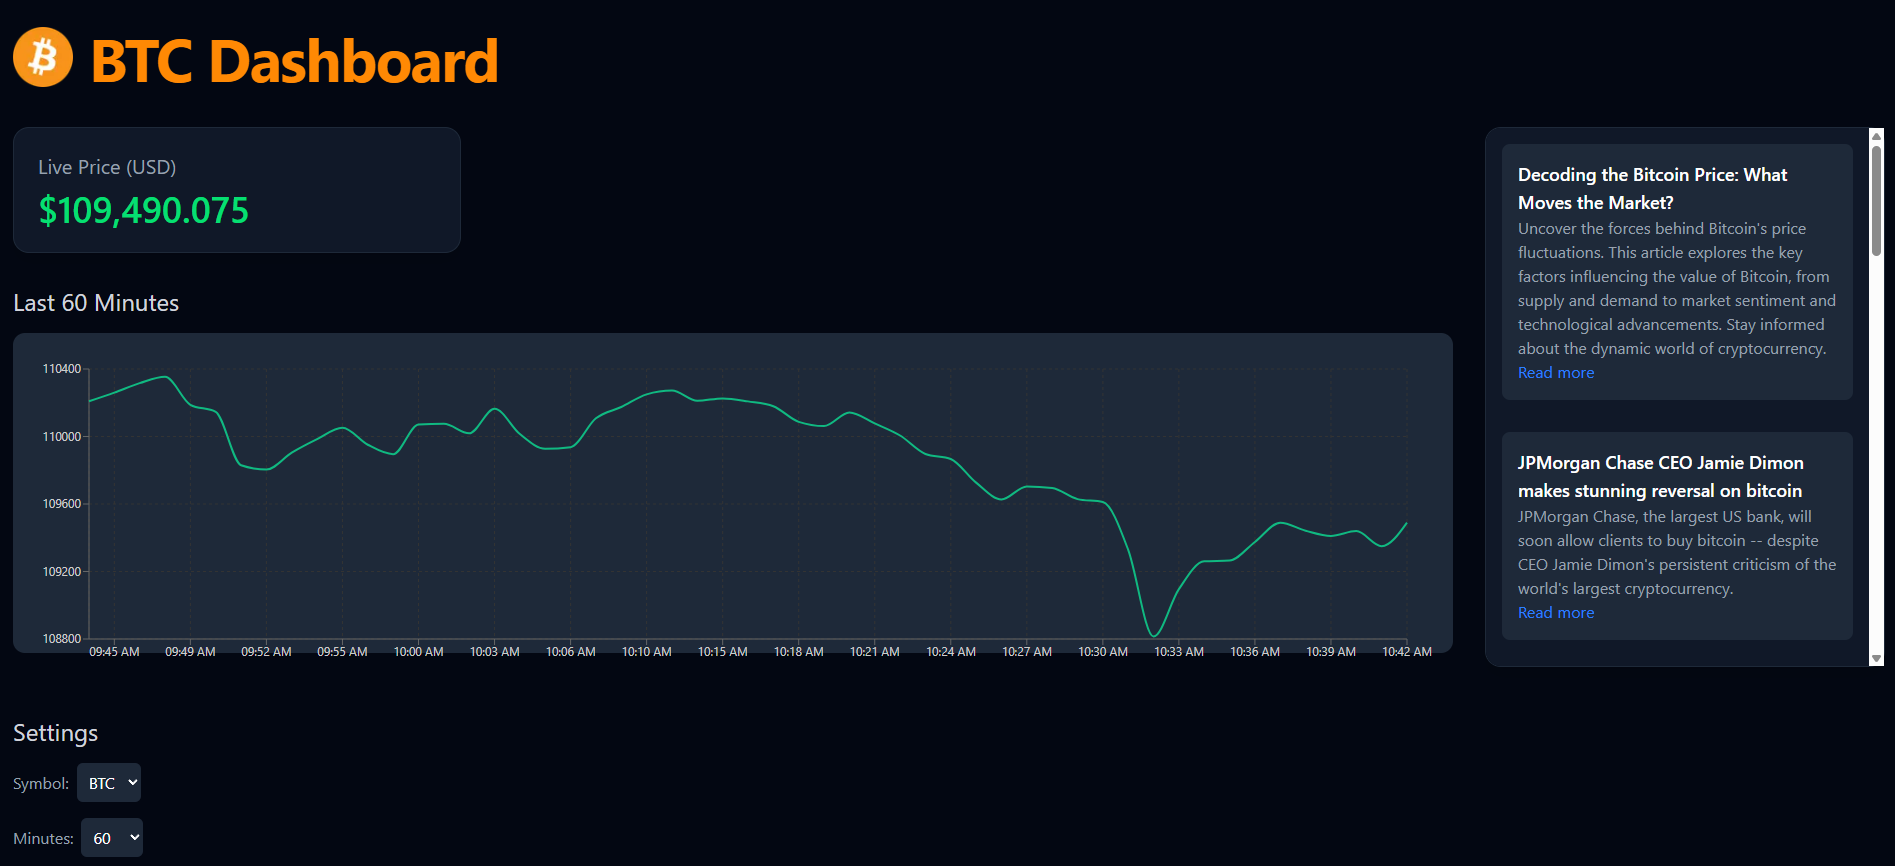
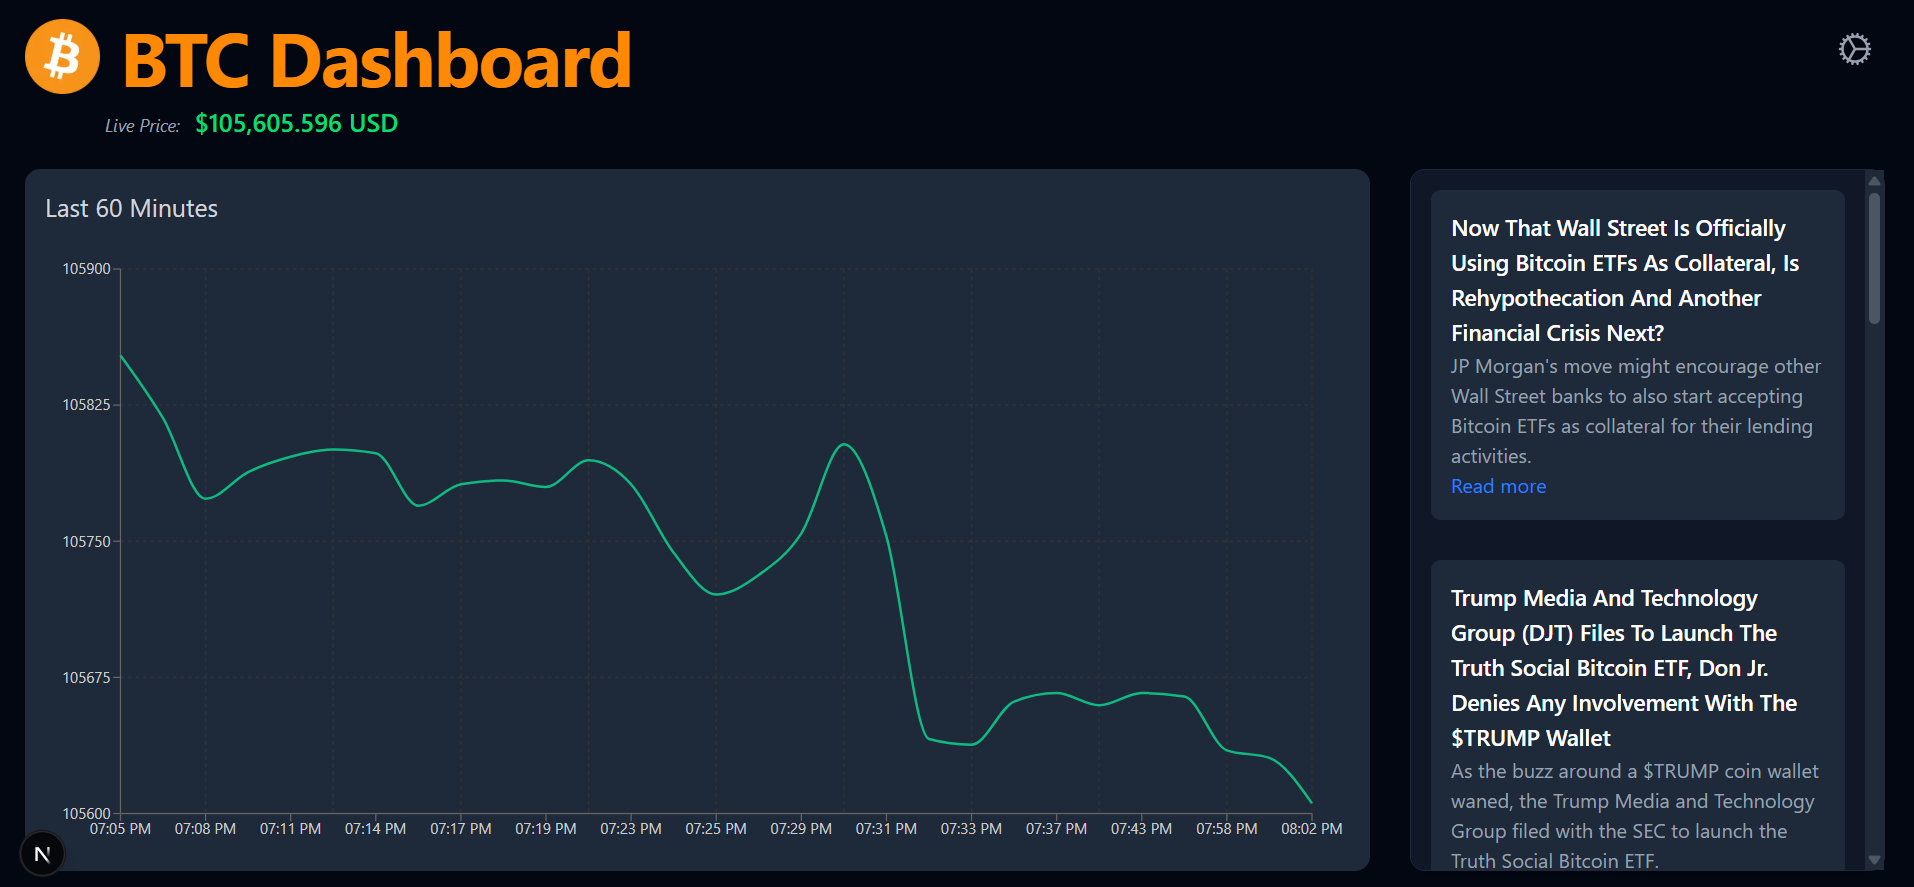
feat: Make UI improvements, add ability to hide features

diff --git a/frontend/pages/index.tsx b/frontend/pages/index.tsx
@@ -1,9 +1,45 @@
 import React, { useEffect, useState } from "react";
 import Image from "next/image";
+import { CogIcon } from "@heroicons/react/24/outline";
 import LineChartComponent from "../components/LineChartComponent";
 import NewsColumnComponent from "../components/NewsColumnComponent";
 import { fetchPriceData, fetchNews } from "../lib/api";
 import { PricePoint, NewsItem } from "../types/types";
+
+// Coin logo component with fallback
+const CoinLogo = ({ symbol }: { symbol: string }) => {
+  const [imageError, setImageError] = useState(false);
+  
+  const getColorClasses = (symbol: string) => {
+    switch (symbol) {
+      case 'BTC': return 'bg-orange-400 border-orange-300';
+      case 'ETH': return 'bg-purple-400 border-purple-300';
+      case 'DOGE': return 'bg-yellow-400 border-yellow-300';
+      case 'SHIB': return 'bg-red-400 border-red-300';
+      case 'SOL': return 'bg-green-400 border-green-300';
+      default: return 'bg-blue-400 border-blue-300';
+    }
+  };
+
+  if (imageError) {
+    return (
+      <div className={`w-[60px] h-[60px] rounded-full border-2 flex items-center justify-center text-white font-bold text-xl ${getColorClasses(symbol)}`}>
+        {symbol}
+      </div>
+    );
+  }
+
+  return (
+    <Image 
+      src={`/${symbol}.png`} 
+      alt={`${symbol} logo`} 
+      width={60} 
+      height={60}
+      onError={() => setImageError(true)}
+      onLoad={() => setImageError(false)}
+    />
+  );
+};
 
 function IndexPage() {
   const [price, setPrice] = useState<number | null>(null);
@@ -13,6 +49,13 @@ function IndexPage() {
   const [symbol, setSymbol] = useState<string>('BTC');
 
   const [news, setNews] = useState<{ [key: string]: NewsItem }>({});
+  
+  // Feature visibility controls
+  const [showChart, setShowChart] = useState<boolean>(true);
+  const [showNews, setShowNews] = useState<boolean>(true);
+  
+  // Settings panel visibility
+  const [isSettingsOpen, setIsSettingsOpen] = useState<boolean>(false);
 
   const handleSymbolChange = (event: React.ChangeEvent<HTMLSelectElement>) => {
     setSymbol(event.target.value);
@@ -34,83 +77,148 @@ function IndexPage() {
   }, [symbol, minutes]);
 
   return (
-    <div className="min-h-screen bg-gray-950 text-white font-sans px-6 py-10">
-      {/* Header */}
-      <div className="flex items-center gap-4 mb-10">
-        <Image src={`/${symbol}.png`} alt={`${symbol} logo`} width={60} height={60} />
-        <h1 className={`text-4xl sm:text-6xl font-bold tracking-tight ${symbol === 'BTC' ? 'text-orange-400' : 'text-purple-400'}`}>
-          {symbol} Dashboard
-        </h1>
-      </div>
+    <div className="h-screen bg-gray-950 text-white font-sans px-6 py-6 flex flex-col relative">
+      {/* Header with title & subtitle */}
+      <div className="mb-6 flex-shrink-0 relative">
+        {/* Gear icon for settings */}
+        <button
+          onClick={() => setIsSettingsOpen(!isSettingsOpen)}
+          className="absolute top-0 right-0 p-2 text-gray-400 hover:text-white transition-colors"
+        >
+          <CogIcon className="w-8 h-8" />
+        </button>
 
-      <div className="flex flex-col lg:flex-row gap-8">
-        {/* Left: Price + Chart */}
-        <div className="flex-1">
-          {/* Price Card */}
-          <div className="bg-gray-900 border border-gray-800 rounded-2xl p-6 shadow-lg mb-8 max-w-md">
-            <h2 className="text-xl text-gray-400 mb-2">Live Price (USD)</h2>
-            <p className="text-4xl font-semibold text-green-400">
-              {price ? `$${price.toLocaleString('en-US', { minimumFractionDigits: 3, maximumFractionDigits: 3 })}` : "Loading..."}
+        {/* Logo + Title + Price */}
+        <div>
+          <div className="flex items-center gap-4 mb-2">
+            <CoinLogo symbol={symbol} />
+            <h1 className={`text-6xl font-bold tracking-tight whitespace-nowrap ${
+              symbol === 'BTC' ? 'text-orange-400' : 
+              symbol === 'ETH' ? 'text-purple-400' :
+              symbol === 'DOGE' ? 'text-yellow-400' :
+              symbol === 'SHIB' ? 'text-red-400' :
+              symbol === 'SOL' ? 'text-green-400' : 'text-blue-400'
+            }`}>
+              {symbol} Dashboard
+            </h1>
+          </div>
+          
+          {/* Price as subtitle - inline */}
+          <div className="ml-16 flex items-baseline gap-3">
+            <p className="text-sm text-gray-400 italic">Live Price:</p>
+            <p className="text-xl font-semibold text-green-400">
+              {price ? `$${price.toLocaleString('en-US', { minimumFractionDigits: 3, maximumFractionDigits: 3 })} USD` : "Loading price..."}
             </p>
           </div>
+        </div>
 
-          {/* Chart */}
-          <div>
-            <h3 className="text-2xl text-gray-300 mb-4">Last {minutes} Minutes</h3>
-            <div className="w-full h-80 bg-gray-800 rounded-xl p-4">
-              {priceHistory.length > 0 ? (
-                <LineChartComponent data={priceHistory} />
-              ) : (
-                <div className="h-full flex items-center justify-center text-gray-500">
-                  Loading chart data...
+        {/* Collapsible Settings Panel */}
+        {isSettingsOpen && (
+          <div className="absolute top-12 right-0 w-[380px] bg-gray-900 border border-gray-800 rounded-xl p-4 shadow-lg z-10">
+            <div className="grid grid-cols-2 gap-4">
+              {/* Column 1: Symbol & Minutes */}
+              <div className="space-y-3">
+                <div>
+                  <label htmlFor="symbol" className="block text-gray-400 text-xs mb-1">
+                    Symbol
+                  </label>
+                  <select
+                    id="symbol"
+                    className="w-full bg-gray-800 text-white rounded-md p-2 text-sm"
+                    value={symbol.toString()}
+                    onChange={handleSymbolChange}
+                  >
+                    <option value="BTC">BTC</option>
+                    <option value="ETH">ETH</option>
+                    <option value="DOGE">DOGE</option>
+                    <option value="SHIB">SHIB</option>
+                    <option value="SOL">SOL</option>
+                  </select>
                 </div>
-              )}
+                <div>
+                  <label htmlFor="minutes" className="block text-gray-400 text-xs mb-1">
+                    Minutes
+                  </label>
+                  <select
+                    id="minutes"
+                    className="w-full bg-gray-800 text-white rounded-md p-2 text-sm"
+                    value={minutes}
+                    onChange={handleMinutesChange}
+                  >
+                    <option value={5}>5</option>
+                    <option value={15}>15</option>
+                    <option value={30}>30</option>
+                    <option value={60}>60</option>
+                    <option value={120}>120</option>
+                  </select>
+                </div>
+              </div>
+
+              {/* Column 2: Feature Checkboxes */}
+              <div className="space-y-3">
+                <div>
+                  <label className="block text-gray-400 text-xs mb-2">Features</label>
+                  <div className="space-y-2">
+                    <label className="flex items-center gap-2 text-sm">
+                      <input
+                        type="checkbox"
+                        checked={showChart}
+                        onChange={(e) => setShowChart(e.target.checked)}
+                        className="rounded bg-gray-800 border-gray-600"
+                      />
+                      Show Chart
+                    </label>
+                    <label className="flex items-center gap-2 text-sm">
+                      <input
+                        type="checkbox"
+                        checked={showNews}
+                        onChange={(e) => setShowNews(e.target.checked)}
+                        className="rounded bg-gray-800 border-gray-600"
+                      />
+                      Show News
+                    </label>
+                  </div>
+                </div>
+              </div>
             </div>
           </div>
-        </div>
-
-        {/* Right: News */}
-        <div className="w-full lg:w-[400px] h-[540px] overflow-y-auto bg-gray-900 border border-gray-800 rounded-2xl p-4 shadow-lg">
-          <NewsColumnComponent news={news} />
-        </div>
+        )}
       </div>
 
-      {/* Settings */}
-      <div className="mt-12">
-        <h3 className="text-2xl text-gray-300 mb-4">Settings</h3>
-        <div className="flex flex-col gap-4">
-          <div className="flex items-center gap-2">
-            <label htmlFor="symbol" className="text-gray-400">
-              Symbol:
-            </label>
-            <select
-              id="symbol"
-              className="bg-gray-800 text-white rounded-md p-2"
-              value={symbol.toString()}
-              onChange={handleSymbolChange}
-            >
-              <option value="BTC">BTC</option>
-              <option value="ETH">ETH</option>
-            </select>
+      {/* Main Content Area - Fills remaining space */}
+      <div className="flex-1 min-h-0">
+        {!showChart && !showNews ? (
+          <div className="h-full flex items-center justify-center">
+            <p className="text-gray-600 text-2xl">Waiting to add features...</p>
           </div>
-          <div className="flex items-center gap-2">
-            <label htmlFor="minutes" className="text-gray-400">
-              Minutes:
-            </label>
-            <select
-              id="minutes"
-              className="bg-gray-800 text-white rounded-md p-2"
-              value={minutes}
-              onChange={handleMinutesChange}
-            >
-              <option value={5}>5</option>
-              <option value={15}>15</option>
-              <option value={30}>30</option>
-              <option value={60}>60</option>
-              <option value={120}>120</option>
-            </select>
+        ) : (
+          <div className="h-full flex flex-col lg:flex-row gap-8">
+            {/* Left: Chart */}
+            {showChart && (
+              <div className="flex-1 min-h-0">
+                <div className="h-full bg-gray-800 rounded-xl p-4 flex flex-col">
+                  <h3 className="text-xl text-gray-300 mb-4 flex-shrink-0">Last {minutes} Minutes</h3>
+                  <div className="flex-1 min-h-0">
+                    {priceHistory.length > 0 ? (
+                      <LineChartComponent data={priceHistory} />
+                    ) : (
+                      <div className="h-full flex items-center justify-center text-gray-500">
+                        Loading chart data...
+                      </div>
+                    )}
+                  </div>
+                </div>
+              </div>
+            )}
+
+            {/* Right: News */}
+            {showNews && (
+              <div className="w-full lg:w-[380px] h-full overflow-y-auto bg-gray-900 border border-gray-800 rounded-xl p-4 shadow-lg flex flex-col">
+                <NewsColumnComponent news={news} />
+              </div>
+            )}
           </div>
-        </div>
+        )}
       </div>
     </div>
   );

diff --git a/frontend/styles/globals.css b/frontend/styles/globals.css
@@ -4,3 +4,34 @@
   --background: #ffffff;
   --foreground: #171717;
 }
+
+/* Custom dark theme scrollbar styles */
+::-webkit-scrollbar {
+  width: 8px;
+  height: 8px;
+}
+
+::-webkit-scrollbar-track {
+  background: #1f2937; /* gray-800 */
+  border-radius: 4px;
+}
+
+::-webkit-scrollbar-thumb {
+  background: #4b5563; /* gray-600 */
+  border-radius: 4px;
+  border: 1px solid #374151; /* gray-700 */
+}
+
+::-webkit-scrollbar-thumb:hover {
+  background: #6b7280; /* gray-500 */
+}
+
+::-webkit-scrollbar-corner {
+  background: #1f2937; /* gray-800 */
+}
+
+/* Firefox scrollbar styling */
+html {
+  scrollbar-width: thin;
+  scrollbar-color: #4b5563 #1f2937; /* thumb-color track-color */
+}

diff --git a/frontend/lib/api.ts b/frontend/lib/api.ts
@@ -3,8 +3,7 @@ export const fetchPriceData = (symbol: String, minutes: number, setPriceHistory:
   fetch(`http://localhost:5000/api/price/${symbol}/${minutes.toString()}`)
       .then((response) => response.json())
       .then((data) => {
-        const parsed = JSON.parse(data);
-        const bars = parsed?.bars?.[`${symbol}/USD`] || [];
+        const bars = data?.bars?.[`${symbol}/USD`] || [];
 
         if (bars.length > 0) {
           const formatted = bars.map((bar: any) => ({

diff --git a/frontend/components/LineChartComponent.tsx b/frontend/components/LineChartComponent.tsx
@@ -25,7 +25,7 @@ const LineChartComponent: React.FC<Props> = ({ data }) => {
   }));
 
   return (
-    <ResponsiveContainer width="100%" height={320}>
+    <ResponsiveContainer width="100%" height="100%">
       <LineChart data={formattedData} margin={{ top: 20, right: 30, left: 0, bottom: 0 }}>
         <CartesianGrid stroke="#333" strokeDasharray="3 3" />
         <XAxis dataKey="time" tick={{ fill: "#ccc", fontSize: 12 }} />

diff --git a/backend/app.py b/backend/app.py
@@ -46,7 +46,10 @@ def news(symbol):
 
     symbol_map = {
         "BTC": "bitcoin",
-        "ETH": "ethereum"
+        "ETH": "ethereum",
+        "DOGE": "dogecoin",
+        "SHIB": "shiba inu",
+        "SOL": "solana"
     }
     query = symbol_map.get(symbol.upper(), symbol.lower())
 
